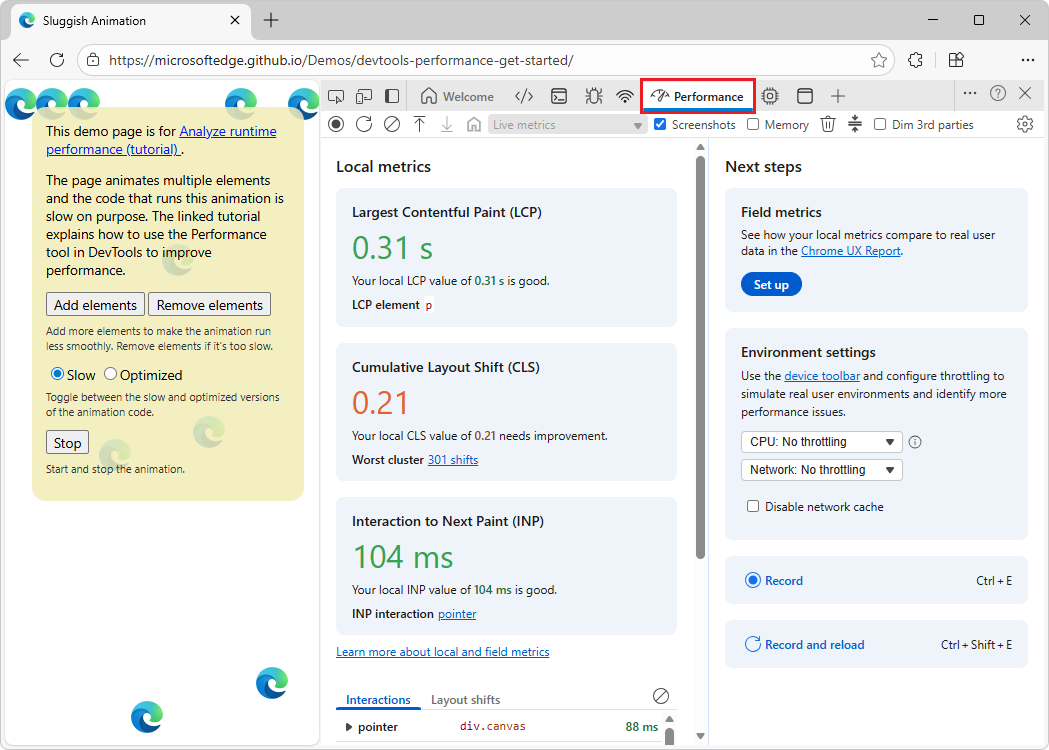
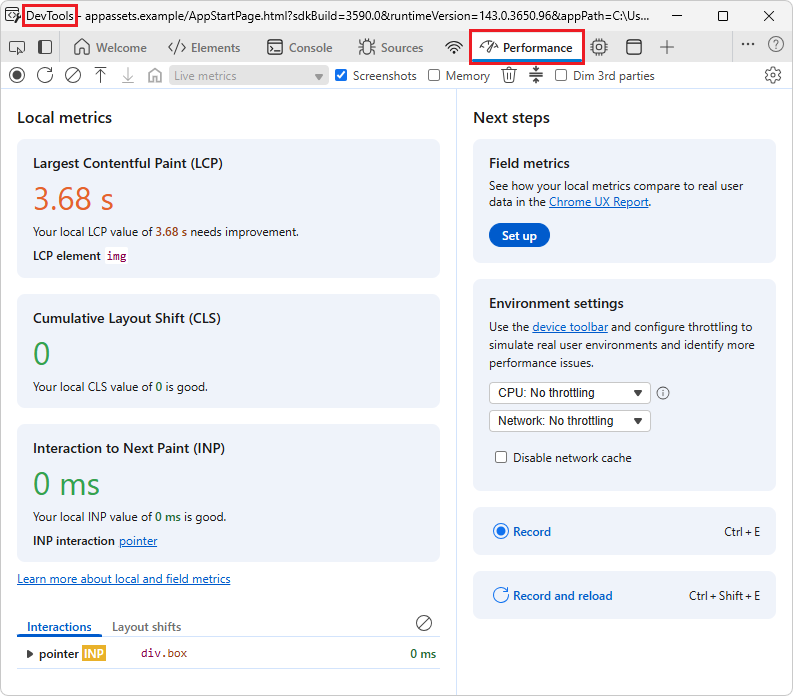
devtools for wv2 app

diff --git a/microsoft-edge/webview2/concepts/performance.md b/microsoft-edge/webview2/concepts/performance.md
@@ -323,11 +323,12 @@ Analyze traces in Windows Performance Analyzer for CPU, disk, and memory data.
 
 Use Microsoft Edge DevTools to monitor WebView2 content and processes, to identify issues such as high CPU or memory leaks.
 
-The **Performance** tool (initial state):
+Right-click a WebView2 control in a WebView2 app, and then select **Inspect**.  For example, right-click the main, ([Win32 sample app](https://learn.microsoft.com/en-us/microsoft-edge/webview2/samples/webview2apissample)), and then click **Inspect**.  DevTools opens in an undocked, dedicated browser window.  You can use tools such as the **Memory** tool and **Performance** tool.
 
 ![Performance tool in Edge DevTools](./performance-images/performance-tool.png)
 
 See also:
+* [Debug WebView2 apps with Microsoft Edge DevTools](../how-to/debug-devtools.md)
 * [Performance tool: Analyze your website's performance](../../devtools/performance/overview.md)
 * [Fix memory problems](../../devtools/memory-problems/index.md) - the **Memory** tool.
 
